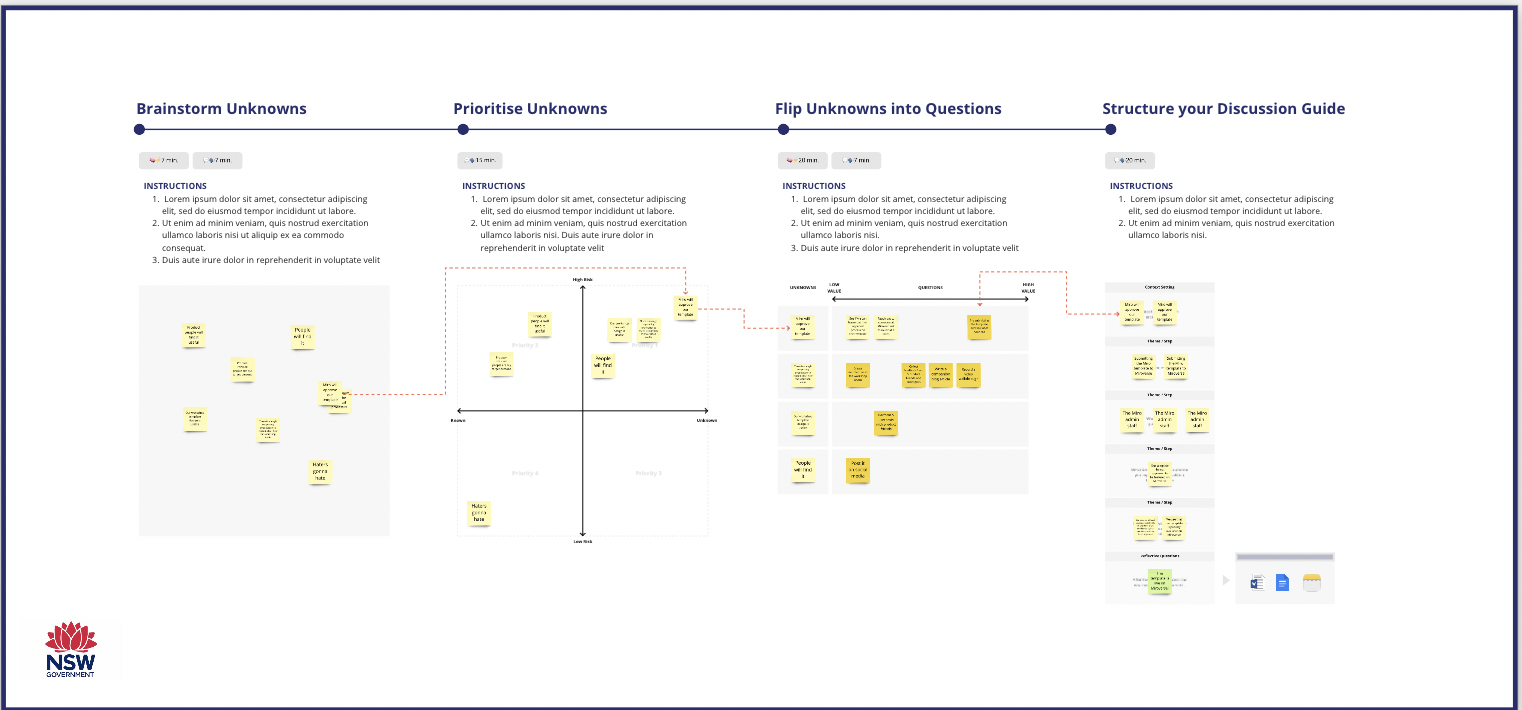
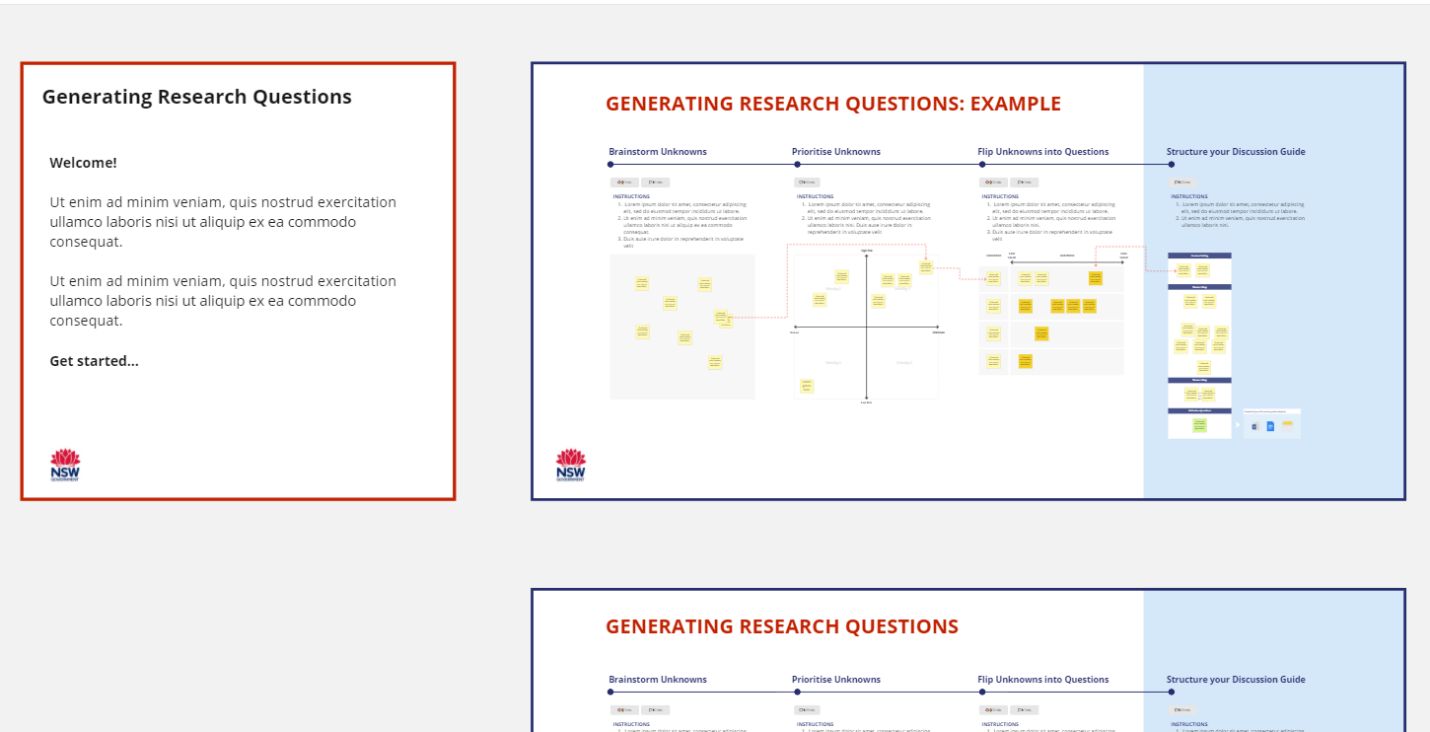
swapped image and updated activity

diff --git a/activities/questions/index.md b/activities/questions/index.md
@@ -25,7 +25,7 @@ layout: default
     <div class="nsw-row nsw-m-bottom-sm">
 
         <div class="nsw-col nsw-col-md-8 nsw-offset-md-2">
-            <a href="https://jamesfehon-nsw.github.io/NSW-research-prototype/activities/questions/embed.html"><img src="Generating-research-questions.png" alt="" style="width:100%"></a>
+            <a href="https://jamesfehon-nsw.github.io/NSW-research-prototype/activities/questions/embed.html"><img src="Generating-research-questions.png" alt="" style="height:300px;width:100%"></a>
             <p>By Website Consolidation, NSW.Gov.au</p>
             <p style="text-align: center;margin-top:0">         <a href="https://jamesfehon-nsw.github.io/NSW-research-prototype/activities/questions/embed.html" class="nsw-button nsw-button--primary">
           Preview
@@ -37,7 +37,23 @@ layout: default
         </div>
 
         <div class="nsw-col nsw-col-md-6">
-            <p>Projects are full of unknowns when you start. By calling them out early and prioritising the ones with the biggest risk you your project, you can decide what you need to know first, and what can wait until later. </p>
+
+
+<p><strong>Projects are full of unknowns when you start. By calling them out early and prioritising the ones with the biggest risk you your project, you can decide what you need to know first, and what can wait until later.</strong> </p>
+<h3>Steps</h3>
+
+<ol>
+    <li>Brainstorm your unknowns <br>
+    Work out what you don’t know about your users.</li>
+    <li>Prioritise unknowns <br>
+    Identify which ones will have the biggest impact on your project.</li>
+    <li>Flip unknowns into questions <br>
+    Work out what to ask to get the information you need.</li>
+    <li>Add questions to discussion guide template <br>
+    Follow a simple structure to decide what to ask and when.</li>
+</ol>
+
+
             <h3>Stay on strategy: </h3>
             <p>
                 When you turn unknowns about your customers into things you know for certain, you’re improving your chances of building the right solution to your users problem.
@@ -58,7 +74,7 @@ layout: default
                         </li>
                         <li>✔ Examples
                         </li>
-                        <li>✔ Walk through video
+                        <li>✔ Activity walk through video
                         </li>
                     </ul>
                     <p>Use this:</p>
